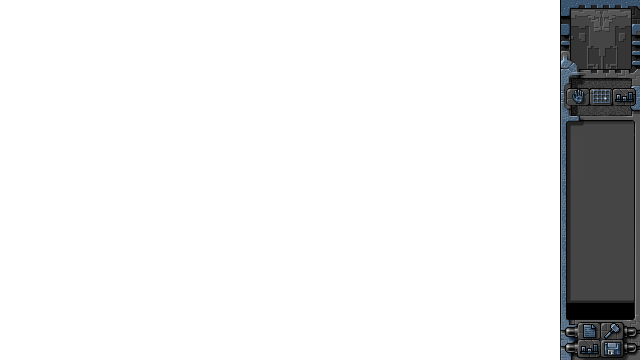
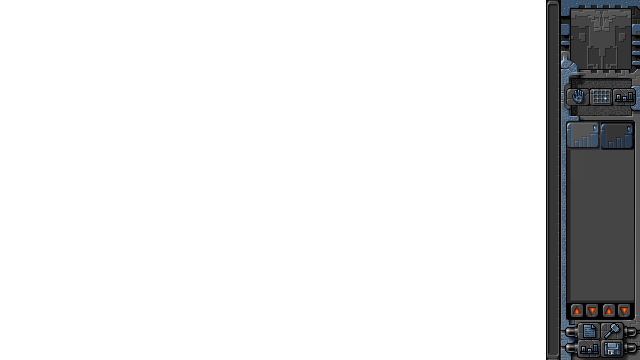
Add power

Changed region(s): [[0.8438, 0.0, 1.0, 1.0]]

diff --git a/src/game/interface/PowerInterface.ts b/src/game/interface/PowerInterface.ts
@@ -1,0 +1,89 @@
+import {SCALE} from "../game_state/Play";
+import {GAME_WIDTH} from "../../app";
+import {INTERFACE_WIDTH} from "./UserInterface";
+import {BuildingProperties} from "../building/BuildingProperties";
+import {WorldKnowledge} from "../map/WorldKnowledge";
+import {Player} from "../player/Player";
+
+const HEIGHT = 349 * 2;
+const TOP = 5 * 2;
+
+export class PowerInterface {
+    private powerProgress: Phaser.Sprite;
+    private powerArrow: Phaser.Sprite;
+    private worldKnowledge: WorldKnowledge;
+    private cropPowerProgress: Phaser.Rectangle;
+    private player: Player;
+    private maxPower: number;
+    private game: Phaser.Game;
+    private neededPower: number;
+    private providedPower: number;
+
+    constructor(worldKnowledge: WorldKnowledge, player: Player) {
+        this.worldKnowledge = worldKnowledge;
+        this.player = player;
+        this.maxPower = BuildingProperties.getPower('AdvancedPowerPlant') * 10;
+        this.neededPower = this.worldKnowledge.getPlayerNeededPower(this.player);
+        this.providedPower = this.worldKnowledge.getPlayerProvidedPower(this.player);
+    }
+
+    create(game: Phaser.Game, group: Phaser.Group) {
+        this.game = game;
+        this.powerProgress = new Phaser.Sprite(
+            game,
+            GAME_WIDTH - INTERFACE_WIDTH + 4,
+            TOP + HEIGHT,
+            'interfaceprogress'
+        );
+        this.powerProgress.scale.setTo(SCALE);
+        this.powerProgress.anchor.setTo(0, 1);
+
+        this.cropPowerProgress = new Phaser.Rectangle(0, 0, 20, this.getHeight(this.providedPower));
+        this.cropPowerProgress.scale(SCALE);
+
+        this.powerArrow = new Phaser.Sprite(
+            game,
+            GAME_WIDTH - INTERFACE_WIDTH + 4,
+            this.getTop(this.neededPower),
+            'interfacelimit',
+            1
+        );
+        this.powerArrow.scale.setTo(SCALE);
+
+        this.powerArrow.anchor.setTo(0, 0.5);
+
+        group.add(this.powerProgress);
+        group.add(this.powerArrow);
+    }
+
+    update() {
+        const neededPower = this.worldKnowledge.getPlayerNeededPower(this.player);
+        const providedPower = this.worldKnowledge.getPlayerProvidedPower(this.player);
+
+        if (this.neededPower !== neededPower) {
+            this.game.add.tween(this.powerArrow).to({
+                y: this.getTop(neededPower),
+            }, 500, Phaser.Easing.Power0, true);
+            this.neededPower = neededPower;
+        }
+
+        if (this.providedPower !== providedPower) {
+            this.game.add.tween(this.cropPowerProgress).to({
+                height: this.getHeight(providedPower),
+            }, 500, Phaser.Easing.Power0, true);
+            this.providedPower = providedPower;
+        }
+
+        this.powerArrow.loadTexture(this.powerArrow.key, neededPower > providedPower ? 0 : 1);
+        this.powerProgress.crop(this.cropPowerProgress, false);
+    }
+
+    private getTop(value): number {
+        return Math.round(TOP + HEIGHT - value * HEIGHT / this.maxPower);
+    }
+
+    private getHeight(value): number {
+        // I have no idea why I have to divide by SCALE...
+        return value * HEIGHT / this.maxPower / SCALE;
+    }
+}

diff --git a/src/game/interface/UserInterface.ts b/src/game/interface/UserInterface.ts
@@ -6,8 +6,9 @@ import {BuildingPositioner} from "./BuildingPositionner";
 import {Selector} from "./Selector";
 import {UIUnitCreator} from "../creator/UIUnitCreator";
 import {GAME_WIDTH} from "../../app";
+import {PowerInterface} from "./PowerInterface";
 
-export const INTERFACE_WIDTH = 160;
+export const INTERFACE_WIDTH = 94 * 2;
 
 export class UserInterface {
     private UIBuildingCreator: UIBuildingCreator;
@@ -18,6 +19,7 @@ export class UserInterface {
     private selector: Selector;
     private buildingPositionner: BuildingPositioner;
     private mineralText: Phaser.Text;
+    private powerInterface: PowerInterface;
 
     constructor(worldKnowledge: WorldKnowledge, player: Player) {
         this.player = player;
@@ -26,6 +28,7 @@ export class UserInterface {
         this.UIBuildingCreator = new UIBuildingCreator(worldKnowledge, this.player, this.buildingPositionner);
         this.UIUnitCreator = new UIUnitCreator(worldKnowledge, this.player);
         this.miniMap = new MiniMap(worldKnowledge);
+        this.powerInterface = new PowerInterface(worldKnowledge, this.player);
     }
 
     create(game: Phaser.Game) {
@@ -51,11 +54,14 @@ export class UserInterface {
             { align: 'center', fill: "#ffffff", font: '24px 000webfont' }
         );
         this.interfaceGroup.add(this.mineralText);
+
+        this.powerInterface.create(game, this.interfaceGroup);
     }
 
     update() {
         this.selector.update();
         this.miniMap.update();
+        this.powerInterface.update();
         this.mineralText.text = this.player.getMinerals() + '';
     }
 }

diff --git a/src/game/map/WorldKnowledge.ts b/src/game/map/WorldKnowledge.ts
@@ -1,5 +1,5 @@
 import {BuildingRepository} from "../repository/BuildingRepository";
-import {Player} from "../player/Player";
+import {Player, START_POWER} from "../player/Player";
 import {Building} from "../building/Building";
 import {Unit} from "../unit/Unit";
 import {UnitRepository} from "../repository/UnitRepository";
@@ -8,6 +8,7 @@ import {GeneratedGround} from "./GeneratedGround";
 import {Shootable} from "../Shootable";
 import {MiniAppear} from "../sprite/MiniAppear";
 import {TiberiumPlant} from "../sprite/TiberiumPlant";
+import {BuildingProperties} from "../building/BuildingProperties";
 
 export class WorldKnowledge {
     private game: Phaser.Game;
@@ -185,5 +186,17 @@ export class WorldKnowledge {
 
     getGrounds(): TiberiumPlant[] {
         return this.groundRepository;
+    }
+
+    getPlayerNeededPower(player: Player): number {
+        return -this.getPlayerBuildings(player).reduce((power, building) => {
+            return power + Math.min(0, BuildingProperties.getPower(building.constructor.name));
+        }, 0);
+    }
+
+    getPlayerProvidedPower(player: Player): number {
+        return START_POWER + this.getPlayerBuildings(player).reduce((power, building) => {
+            return power + Math.max(0, BuildingProperties.getPower(building.constructor.name));
+        }, 0);
     }
 }

diff --git a/src/game/game_state/Preload.ts b/src/game/game_state/Preload.ts
@@ -73,6 +73,8 @@ export default class Preload extends Phaser.State {
         this.load.spritesheet('Platform', 'assets/Platform.png', 40, 40, 31, 0, 0);
         this.load.spritesheet('Creation', 'assets/Creation.png', 40, 40, 23, 0, 0);
         this.load.spritesheet('interfacebuttons', 'assets/interfacebuttons.png', 12, 13, 4, 0, 0);
+        this.load.spritesheet('interfaceprogress', 'assets/interfaceprogress.png', 10, 349, 1, 0, 0);
+        this.load.spritesheet('interfacelimit', 'assets/interfacelimit.png', 10, 10, 2, 0, 0);
         this.load.spritesheet('Bullets', 'assets/Bullets.png', 9, 9, 36, 1, 1);
         this.load.spritesheet('Muzzle', 'assets/Muzzle.png', 20, 20, 64, 0, 0);
     }

diff --git a/src/game/building/BuildingProperties.ts b/src/game/building/BuildingProperties.ts
@@ -62,6 +62,7 @@ const DATA = {
         constructable: false,
         constructable_units: [],
         life: 400,
+        power: -20,
     },
     GuardTower: {
         cellPositions: [
@@ -195,5 +196,9 @@ export class BuildingProperties {
 
     static getOption(buildingName: string, optionName: string): any {
         return DATA[buildingName].options[optionName];
+    }
+
+    static getPower(buildingName: string): number {
+        return DATA[buildingName].power || 0;
     }
 }

diff --git a/src/game/player/Player.ts b/src/game/player/Player.ts
@@ -4,6 +4,7 @@ import {BuildingCreator} from "../creator/BuildingCreator";
 import {UnitCreator} from "../creator/UnitCreator";
 
 const START_MINERALS = 3000;
+export const START_POWER = 10;
 
 export abstract class Player {
     protected worldKnowledge: WorldKnowledge;
